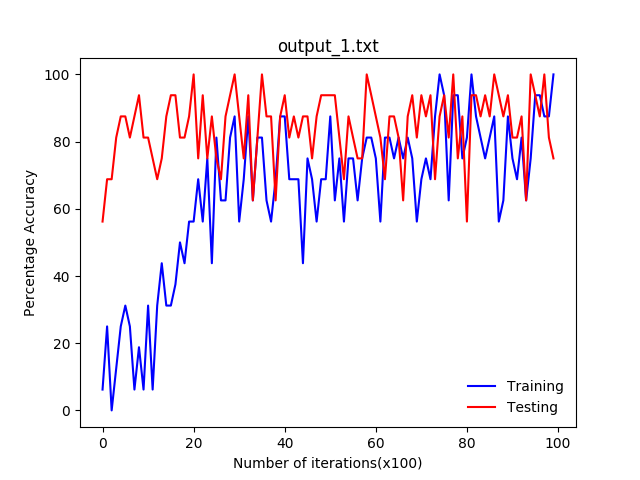
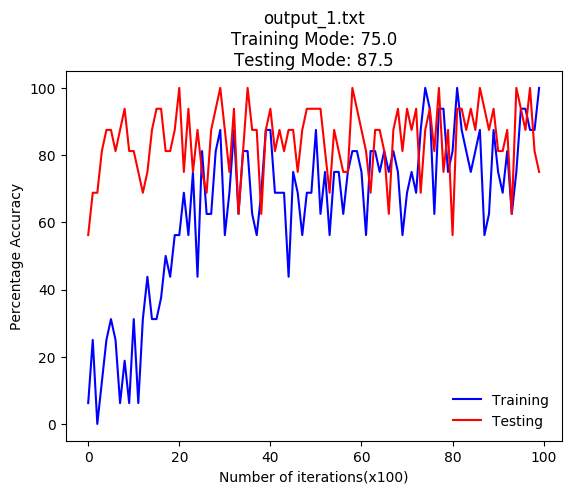
Changes

Changed region(s): [[0.0, 0.0, 0.9757, 1.0]]

diff --git a/main.py b/main.py
@@ -4,15 +4,19 @@ import numpy as np
 import matplotlib.pyplot as plt
 from collections import Counter
 from sklearn.linear_model import SGDClassifier
-#==================EXTRACTING AND ANALYSING DATA FROM .mat FILES===========================
-
+#==================EXTRACTING AND ANALYSING DATA FROM .mat FILES===============
+"""
+X and Y Components of Training and Testing Data
+"""
 train_data = scipy.io.loadmat('../train_32x32.mat')['X']
 train_labels = scipy.io.loadmat('../train_32x32.mat')['y']
 test_data = scipy.io.loadmat('../test_32x32.mat')['X']
 test_labels = scipy.io.loadmat('../test_32x32.mat')['y']
 shape_train = train_data.shape
 shape_test = test_data.shape
-
+"""
+Plotting Class Labels against their respective frequencies in a Bar Graph
+"""
 temp_labels = train_labels.reshape(73257).tolist()
 temp_labels = dict(Counter(temp_labels))
 plt.bar(range(len(temp_labels)), temp_labels.values(), align='center', label='Training Labels')
@@ -27,12 +31,19 @@ plt.title('Frequency Distribution of Class Labels')
 plt.show()
 #============================================================================
 
+
 print shape_train[3], "Images with", shape_train[0], "x", shape_train[0], "RGB grid"
-#==================NORMALISATION=============================================
+
+
+#==================NORMALISATION AND PREPROCESSING=============================================
 
 train_data = train_data.astype('float32') / 128.0 - 1
 test_data = test_data.astype('float32') / 128.0 - 1
 
+
+"""
+Converting Labels to One Hot Encoding and Image Matrix to favourable dimensions
+"""
 def reformat(data, Y):
     xtrain = []
     trainLen = data.shape[3]
@@ -70,8 +81,9 @@ test_data, test_labels = reformat(test_data, test_labels)
 
 
 #============================================================================
-
-
+"""
+Various Hyperparameters required for training the CNN.
+"""
 image_size = 32
 width = 32
 height = 32
@@ -86,40 +98,51 @@ dropout = 0.9375
 batch = 16
 learning_rate = 0.001
 
+"""
+Constructing the placeholders and variables in the TensorFlow Graph
+"""
+#Training Dataset
 tf_train_dataset = tf.placeholder(tf.float32, shape=(None, width, height, channels))
+#Training Labels
 tf_train_labels = tf.placeholder(tf.float32, shape=(None, n_labels))
+#Testing Dataset
 tf_test_dataset = tf.constant(test_data)
 
+#   Layer 1: (5, 5, 3, 16)
 layer1_weights = tf.Variable(tf.truncated_normal([patch, patch, channels, depth], stddev=0.1))
 layer1_biases = tf.Variable(tf.constant(1.0, shape=[depth]))
 
+#   Layer 2: (5, 5, 16, 16)
 layer2_weights = tf.Variable(tf.truncated_normal([patch, patch, depth, depth], stddev=0.1))
 layer2_biases = tf.Variable(tf.constant(1.0, shape=[depth]))
 
+#   Layer 3: (1024, 128)
 layer3_weights = tf.Variable(tf.truncated_normal([image_size // 4 * image_size // 4 * depth, hidden], stddev=0.1))
 layer3_biases = tf.Variable(tf.constant(1.0, shape=[hidden]))
 
+#   Layer 4: (128, 10)
 layer4_weights = tf.Variable(tf.truncated_normal([hidden, n_labels], stddev=0.1))
 layer4_biases = tf.Variable(tf.constant(1.0, shape=[n_labels]))
 
 dropout = tf.placeholder(tf.float32)
 
 def model(data):
+    #   Convolution 1 and RELU
     conv1 = tf.nn.conv2d(data, layer1_weights, [1, 1, 1, 1], padding='SAME')
     hidden1 = tf.nn.relu(conv1 + layer1_biases)
-
+    #   Max Pool
     hidden2 = tf.nn.max_pool(hidden1, ksize=[1, 2, 2, 1], strides=[1, 2, 2, 1], padding='SAME')
-
+    #   Convolution 2 and RELU
     conv2 = tf.nn.conv2d(hidden2, layer2_weights, [1, 1, 1, 1], padding='SAME')
     hidden3 = tf.nn.relu(conv2 + layer2_biases)
-
+    #   Max Pool
     hidden4 = tf.nn.max_pool(hidden3, ksize=[1, 2, 2, 1], strides=[1, 2, 2, 1], padding='SAME')
 
     shape = hidden4.get_shape().as_list()
 
     reshape = tf.reshape(hidden4, [-1, shape[1] * shape[2] * shape[3]])
     hidden5 = tf.nn.relu(tf.matmul(reshape, layer3_weights) + layer3_biases)
-    
+    #   Dropout
     dropout_layer = tf.nn.dropout(hidden5, 0.93)
     
     return tf.matmul(dropout_layer, layer4_weights) + layer4_biases
@@ -131,11 +154,15 @@ optimizer = tf.train.AdamOptimizer(0.001).minimize(loss)
 train_prediction = tf.nn.softmax(logits)
 test_prediction = tf.nn.softmax(model(tf_test_dataset))
 
-
+"""
+Accuracy function defined similar to the one taught in the Udacity Deep Learning Course
+Returns percentage of correct predictions by verifying with Labels
+"""
 def accuracy(predictions, labels):
     return (100.0 * np.sum(np.argmax(predictions, 1) == np.argmax(labels, 1))
           / predictions.shape[0])
 
+#   Number of iterations
 num_steps = 10000
 
 with tf.Session() as session:
@@ -143,11 +170,14 @@ with tf.Session() as session:
     print('Initialized')
     average = 0
     for step in range(num_steps):
+        #   Constucting the batch from the data set
         offset = (step * batch) % (train_labels.shape[0] - batch)
         batch_data = train_data[offset:(offset + batch), :, :, :]
         batch_labels = train_labels[offset:(offset + batch), :]
+        #   Dictionary to be fed to TensorFlow Session
         feed_dict = {tf_train_dataset : batch_data, tf_train_labels : batch_labels, dropout: 0.93}
         _, l, predictions = session.run([optimizer, loss, train_prediction], feed_dict=feed_dict)
+        #   Calculating the Accuracy of the predictions
         accu = accuracy(predictions, batch_labels)
         if (step % 50 == 0):
             print('Minibatch loss at step %d: %f' % (step, l))
@@ -157,11 +187,14 @@ with tf.Session() as session:
     print "END OF TRAINING"
     average = 0
     for step in range(num_steps):
+        #   Constucting the batch from the data set
         offset = (step * batch) % (test_labels.shape[0] - batch)
         batch_data = test_data[offset:(offset + batch), :, :, :]
         batch_labels = test_labels[offset:(offset + batch), :]
+        #   Dictionary to be fed to TensorFlow Session
         feed_dict = {tf_train_dataset : batch_data, tf_train_labels : batch_labels, dropout: 0.93}
         _, l, predictions = session.run([optimizer, loss, train_prediction], feed_dict=feed_dict)
+        #   Calculating the Accuracy of the predictions
         accu = accuracy(predictions, batch_labels)
         if (step % 50 == 0):
             print('Minibatch loss at step %d: %f' % (step, l))

diff --git a/analysis.py b/analysis.py
@@ -1,6 +1,6 @@
 import matplotlib.pyplot as plt
 from collections import OrderedDict
-
+from scipy import stats
 file_names = ['output_1.txt', 'output_2.txt','output_3.txt', 'output_4.txt', 'output_5.txt']
 for fname in file_names:
     plt.clf()
@@ -19,7 +19,7 @@ for fname in file_names:
         if (j * 50) % 100 == 0:
             train_accuracies.append(training_accuracies[j]) 
     plt.plot(range(100), train_accuracies, color='blue', label='Training')
-    
+    train_mode = (stats.mode(train_accuracies).mode[0])
     i += 1
 
     testing_accuracies = []
@@ -27,18 +27,17 @@ for fname in file_names:
         if 'Minibatch accuracy' in lines[i]:
             testing_accuracies.append(float(lines[i][20:lines[i].index('%', 20)]))
         i += 1
-
     test_accuracies = []
     for j in xrange(len(testing_accuracies)):
         if (j * 50) % 100 == 0:
             test_accuracies.append(testing_accuracies[j]) 
-    
+    test_mode = (stats.mode(test_accuracies).mode[0])
     plt.plot(range(100), test_accuracies, color='red', label='Testing')
     
     
-    plt.title(fname)
+    plt.title(fname + '\nTraining Mode: ' + str(train_mode) + '\nTesting Mode: ' + str(test_mode))
     plt.ylabel('Percentage Accuracy')
     plt.xlabel('Number of iterations(x100)')
     plt.legend()
     figname = fname[0:fname.index('.')] + '.png'
-    plt.savefig(figname)
+    plt.savefig(figname, pad_inches=0.1, bbox_inches='tight')
